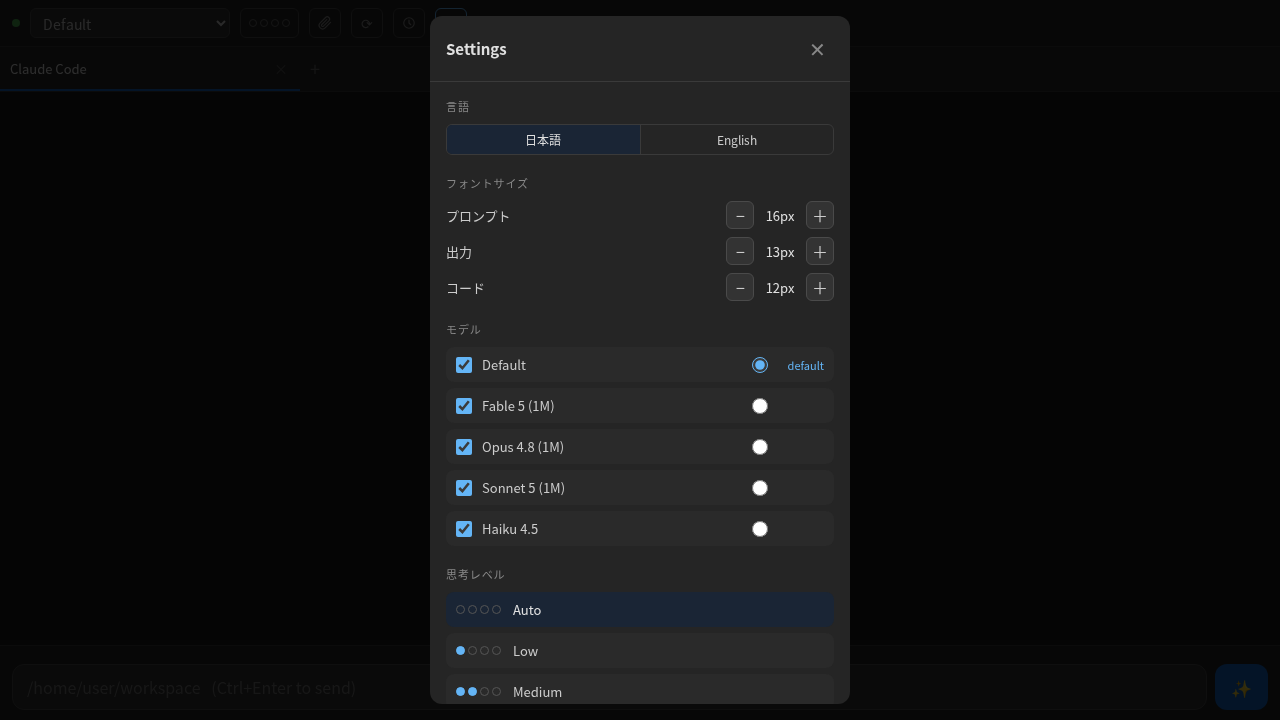
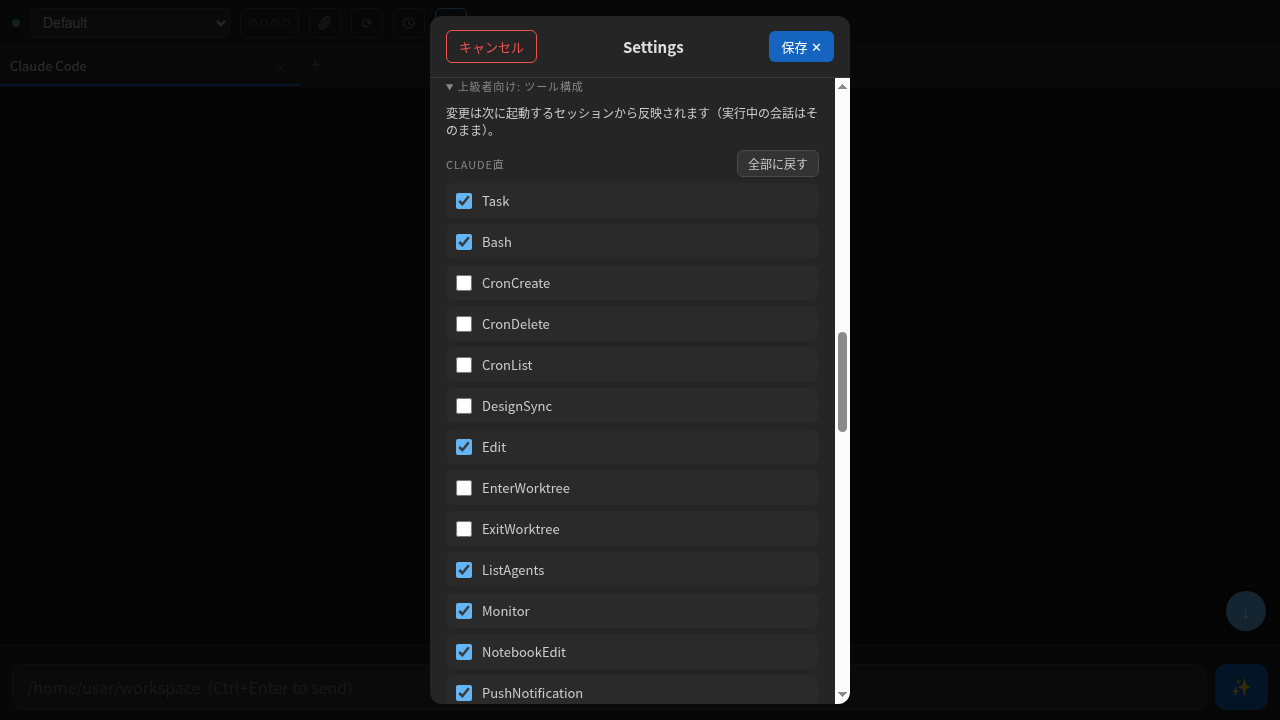
release: v2.13.1 (docs-only)
- CHANGELOG: v2.12.2 に独立した見出しを立てる（v2.12.3 の下に混在していた）
- README: permissionMode の値一覧を撤去し「CLIへ素通し」の説明へ（v2.13.0 に合わせる）
- config.example.json: toolsDirect を追記
- screenshots/projects.png: 現行の設定画面（ツール allowlist・ヘッダー保存/キャンセル）で撮り直し

diff --git a/CHANGELOG.ja.md b/CHANGELOG.ja.md
@@ -4,6 +4,14 @@
 
 pocket-claude の主要な変更をここに記録します。
 
+## [v2.13.1] - 2026-09-15
+
+### ドキュメント
+- CHANGELOG: v2.12.2（カーソルの世代管理・範囲外リセット）に独立した見出しを立てた（v2.12.3 の下に紛れていた）。
+- README: `permissionMode` の説明からCLIが受け付ける値の列挙を外した。値はそのまま `claude --permission-mode` へ渡され、pocket-claude 側は一覧を持たない（v2.13.0 の変更に合わせた）。
+- `config.example.json` に `toolsProxy` と並べて `toolsDirect` を記載。
+- `screenshots/projects.png` を現在の設定画面（ツールの allowlist・ヘッダーの保存/キャンセル）に更新。
+
 ## [v2.13.0] - 2026-09-15
 
 ### 変更
@@ -29,6 +37,8 @@ pocket-claude の主要な変更をここに記録します。
 
 ### 変更
 - **ライブログの寿命を「単純な30日の日数GC」に一本化し、プロセス終了時の破棄と「本体jsonlが既に存在する」起動時スイープを撤去** — どちらも画面上のマーカーの唯一の情報源だったライブログを消していました。`log_start` の境界はライブログをどれだけ長く残しても正確に切れるため、長く残しても二重描画にはなりません。スイープは起動時と、以後は日次で走ります。
+
+## [v2.12.2] - 2026-09-14
 
 ### 修正
 - **切断中に終わったターンが黙って欠けることがある不具合を修正** — v2.12.1でライブログ（`logs/<id>.jsonl`）の寿命を「CLIが `result`／`error` を報告した直後に破棄」する1ターンに縮めたため、そのターンが端末の切断中に終わると、復帰時にクライアントが要求する行番号の続きがファイルにもう存在せず、そのターンが画面に一切現れないまま消えていました。もう一つの以前からの穴として、サーバー再起動で行番号は0から振り直されるため、クライアントが再接続する前にあるセッションのライブログがキャッシュ済みの古い行番号を追い越して育つと、クライアントは自分のカーソルがもう昔の意味を指していないことに気づく手段がなく、黙って新旧を継ぎ足していました。

diff --git a/CHANGELOG.md b/CHANGELOG.md
@@ -4,6 +4,14 @@ English | [日本語](CHANGELOG.ja.md)
 
 All notable changes to pocket-claude are documented here.
 
+## [v2.13.1] - 2026-09-15
+
+### Docs
+- CHANGELOG: v2.12.2 (cursor generation / out-of-range reset) now has its own heading; it had been folded under v2.12.3.
+- README: the `permissionMode` note no longer lists the CLI's accepted values - the value is passed to `claude --permission-mode` as-is and pocket-claude keeps no copy of that list (matches the v2.13.0 change).
+- `config.example.json` now shows `toolsDirect` alongside `toolsProxy`.
+- `screenshots/projects.png` updated to the current Settings panel (tool allowlists, header Save/Cancel).
+
 ## [v2.13.0] - 2026-09-15
 
 ### Changed
@@ -29,6 +37,8 @@ All notable changes to pocket-claude are documented here.
 
 ### Changed
 - **The live log's lifetime is now a plain 30-day age-based sweep, not process-close discard or a "CLI transcript already exists" startup sweep** - both of those removed logs that were still the only source for on-screen markers. The `log_start` boundary already cuts precisely regardless of how long a live log is kept, so keeping it longer does not cause duplicate rendering. The sweep now runs at startup and once a day thereafter.
+
+## [v2.12.2] - 2026-09-14
 
 ### Fixed
 - **A turn that finished while a device was disconnected could silently vanish** - v2.12.1 made the live log (`logs/<id>.jsonl`) live for exactly one turn, discarded right after the CLI reports `result`/`error`. If the turn finished while the client was offline, the file was already gone by the time the client reconnected and asked for the line after the one it last saw - there was nothing there to serve, and that turn simply never appeared. A related, longer-standing gap: after a server restart, line numbers start over from zero, and if a session's live log grew past a stale cached line number before the client reconnected, the client had no way to tell its cursor no longer pointed at what it used to and would silently splice new content onto old.

diff --git a/README.md b/README.md
@@ -264,7 +264,7 @@ pocket-claude is designed for **local/trusted network use**:
 
 - **Local network only** - Runs on localhost or LAN by default
 - **Configurable bind address** - Set `host` in `config.json` (or the `HOST` env var) to listen on a specific interface only, e.g. so the server is reachable solely through your reverse proxy (default: `0.0.0.0`)
-- **Permission mode** - Use `permissionMode: "acceptEdits"` for safer operation. Valid values are those accepted by `claude --permission-mode`: `acceptEdits`, `auto`, `bypassPermissions`, `manual`, `dontAsk`, `plan`. An unknown value makes the CLI refuse to start.
+- **Permission mode** - Use `permissionMode: "acceptEdits"` for safer operation. The value is passed to `claude --permission-mode` as-is, so the valid set is whatever your installed CLI accepts (see `claude --help`); pocket-claude does not keep its own copy of that list. An unknown value makes the CLI refuse to start.
 - **Trusted environment** - Not designed for public internet exposure
 
 For remote access, consider using a VPN or SSH tunnel instead of exposing the server directly.
